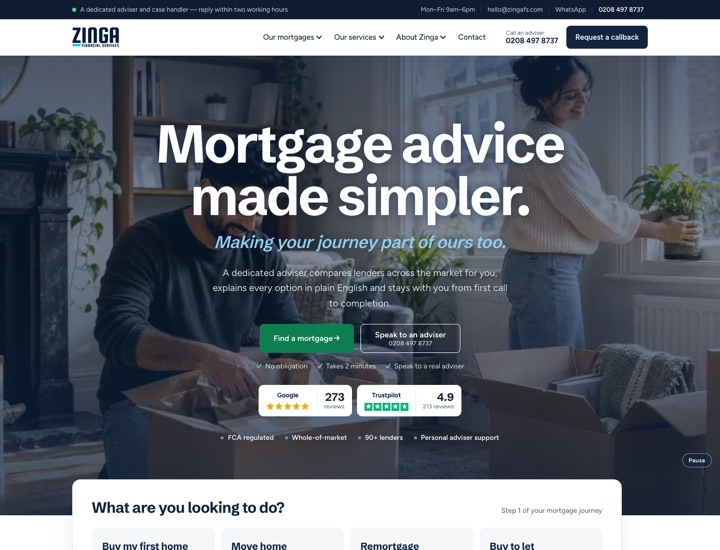
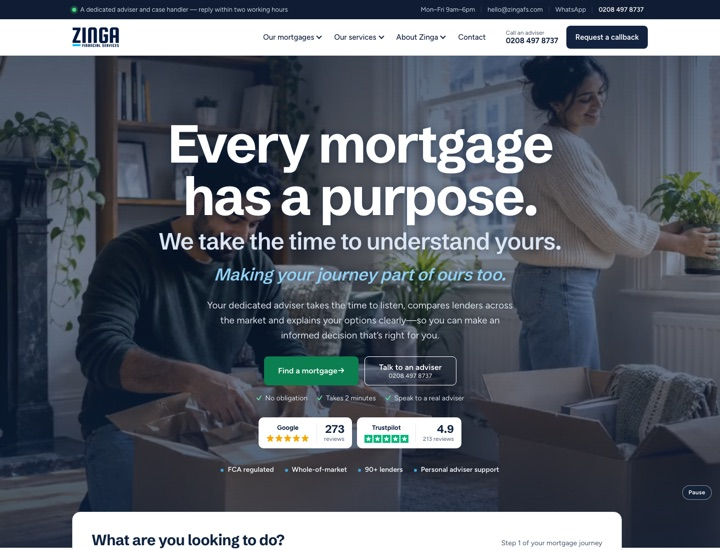
Use the client's hero wording in all four options
"Every mortgage has a purpose. We take the time to understand yours.",
the new intro paragraph and a "Talk to an adviser" button.

diff --git a/hero-photo/index.html b/hero-photo/index.html
@@ -25,7 +25,7 @@
 <script src="js/site.js" defer></script>
         <script src="js/home.js" defer></script>
     </head>
-<body>
+<body >
 <a class="skip-link" href="#main">Skip to content</a>
 <div class="page">
     <div class="topbar" role="region" aria-label="Contact and regulatory information">
@@ -46,8 +46,8 @@
     <header class="site-header" id="site-header">
     <div class="container header-bar">
         <a class="logo" href="./" aria-label="Zinga Financial Services home">
-            <img src="images/zinga-logo.png" alt="Zinga Financial Services" width="94" height="40">
-        </a>
+            <img class="" src="images/zinga-logo.png" alt="Zinga Financial Services" width="94" height="40">
+                    </a>
         <nav class="main-nav" aria-label="Main">
             
             <div class="mega" data-mega>
@@ -304,12 +304,12 @@
                     <img class="hp-hero-media" src="storage/stock/hero.jpg" alt="" aria-hidden="true" width="1536" height="1024" fetchpriority="high" decoding="async">
                 
         <div class="container hp-hero-solo">
-            <h1 class="hp-h1">Mortgage advice made simpler.</h1>
+            <h1 class="hp-h1">Every mortgage has a purpose. <span class="hp-h1-soft">We take the time to understand yours.</span></h1>
                             <p class="hp-motto">Making your journey part of ours too.</p>
-                        <p class="hp-lede">A dedicated adviser compares lenders across the market for you, explains every option in plain English and stays with you from first call to completion.</p>
+                        <p class="hp-lede">Your dedicated adviser takes the time to listen, compares lenders across the market and explains your options clearly—so you can make an informed decision that’s right for you.</p>
             <div class="hp-cta-row">
                 <a class="btn btn-go btn-lg" href="#enquiry" data-scroll-enquiry data-event="find_mortgage_click" data-location="hero">Find a mortgage <span aria-hidden="true">→</span></a>
-                <a class="btn btn-outline btn-lg hp-call-btn" href="tel:02084978737" data-event="call_click" data-location="hero"><span>Speak to an adviser</span><small>0208 497 8737</small></a>
+                <a class="btn btn-outline btn-lg hp-call-btn" href="tel:02084978737" data-event="call_click" data-location="hero"><span>Talk to an adviser</span><small>0208 497 8737</small></a>
             </div>
             <ul class="hp-ticks" aria-label="What to expect">
                 <li>No obligation</li><li>Takes 2 minutes</li><li>Speak to a real adviser</li>
@@ -559,7 +559,7 @@
                             <div class="hp-field" aria-hidden="true">
                                 <label>Leave this field empty <input type="text" name="website" tabindex="-1" autocomplete="off"></label>
                             </div>
[2 lines of base64/hex data omitted]
                         </fieldset>
 
                         <p class="error hp-step-error" data-step-error role="alert" hidden></p>

diff --git a/hero-video/index.html b/hero-video/index.html
@@ -25,7 +25,7 @@
 <script src="js/site.js" defer></script>
         <script src="js/home.js" defer></script>
     </head>
-<body>
+<body >
 <a class="skip-link" href="#main">Skip to content</a>
 <div class="page">
     <div class="topbar" role="region" aria-label="Contact and regulatory information">
@@ -46,8 +46,8 @@
     <header class="site-header" id="site-header">
     <div class="container header-bar">
         <a class="logo" href="./" aria-label="Zinga Financial Services home">
-            <img src="images/zinga-logo.png" alt="Zinga Financial Services" width="94" height="40">
-        </a>
+            <img class="" src="images/zinga-logo.png" alt="Zinga Financial Services" width="94" height="40">
+                    </a>
         <nav class="main-nav" aria-label="Main">
             
             <div class="mega" data-mega>
@@ -308,12 +308,12 @@
             <button type="button" class="hp-hero-pause" data-hero-pause aria-label="Pause background video">Pause</button>
                 
         <div class="container hp-hero-solo">
-            <h1 class="hp-h1">Mortgage advice made simpler.</h1>
+            <h1 class="hp-h1">Every mortgage has a purpose. <span class="hp-h1-soft">We take the time to understand yours.</span></h1>
                             <p class="hp-motto">Making your journey part of ours too.</p>
-                        <p class="hp-lede">A dedicated adviser compares lenders across the market for you, explains every option in plain English and stays with you from first call to completion.</p>
+                        <p class="hp-lede">Your dedicated adviser takes the time to listen, compares lenders across the market and explains your options clearly—so you can make an informed decision that’s right for you.</p>
             <div class="hp-cta-row">
                 <a class="btn btn-go btn-lg" href="#enquiry" data-scroll-enquiry data-event="find_mortgage_click" data-location="hero">Find a mortgage <span aria-hidden="true">→</span></a>
-                <a class="btn btn-outline btn-lg hp-call-btn" href="tel:02084978737" data-event="call_click" data-location="hero"><span>Speak to an adviser</span><small>0208 497 8737</small></a>
+                <a class="btn btn-outline btn-lg hp-call-btn" href="tel:02084978737" data-event="call_click" data-location="hero"><span>Talk to an adviser</span><small>0208 497 8737</small></a>
             </div>
             <ul class="hp-ticks" aria-label="What to expect">
                 <li>No obligation</li><li>Takes 2 minutes</li><li>Speak to a real adviser</li>
@@ -563,7 +563,7 @@
                             <div class="hp-field" aria-hidden="true">
                                 <label>Leave this field empty <input type="text" name="website" tabindex="-1" autocomplete="off"></label>
                             </div>
[2 lines of base64/hex data omitted]
                         </fieldset>
 
                         <p class="error hp-step-error" data-step-error role="alert" hidden></p>

diff --git a/hero-photo-full/index.html b/hero-photo-full/index.html
@@ -306,12 +306,12 @@
                     <img class="hp-hero-media" src="storage/stock/hero.jpg" alt="" aria-hidden="true" width="1536" height="1024" fetchpriority="high" decoding="async">
                 
         <div class="container hp-hero-solo">
-            <h1 class="hp-h1">Mortgage advice made simpler.</h1>
+            <h1 class="hp-h1">Every mortgage has a purpose. <span class="hp-h1-soft">We take the time to understand yours.</span></h1>
                             <p class="hp-motto">Making your journey part of ours too.</p>
-                        <p class="hp-lede">A dedicated adviser compares lenders across the market for you, explains every option in plain English and stays with you from first call to completion.</p>
+                        <p class="hp-lede">Your dedicated adviser takes the time to listen, compares lenders across the market and explains your options clearly—so you can make an informed decision that’s right for you.</p>
             <div class="hp-cta-row">
                 <a class="btn btn-go btn-lg" href="#enquiry" data-scroll-enquiry data-event="find_mortgage_click" data-location="hero">Find a mortgage <span aria-hidden="true">→</span></a>
-                <a class="btn btn-outline btn-lg hp-call-btn" href="tel:02084978737" data-event="call_click" data-location="hero"><span>Speak to an adviser</span><small>0208 497 8737</small></a>
+                <a class="btn btn-outline btn-lg hp-call-btn" href="tel:02084978737" data-event="call_click" data-location="hero"><span>Talk to an adviser</span><small>0208 497 8737</small></a>
             </div>
             <ul class="hp-ticks" aria-label="What to expect">
                 <li>No obligation</li><li>Takes 2 minutes</li><li>Speak to a real adviser</li>
@@ -561,7 +561,7 @@
                             <div class="hp-field" aria-hidden="true">
                                 <label>Leave this field empty <input type="text" name="website" tabindex="-1" autocomplete="off"></label>
                             </div>
[2 lines of base64/hex data omitted]
                         </fieldset>
 
                         <p class="error hp-step-error" data-step-error role="alert" hidden></p>

diff --git a/hero-video-full/index.html b/hero-video-full/index.html
@@ -310,12 +310,12 @@
             <button type="button" class="hp-hero-pause" data-hero-pause aria-label="Pause background video">Pause</button>
                 
         <div class="container hp-hero-solo">
-            <h1 class="hp-h1">Mortgage advice made simpler.</h1>
+            <h1 class="hp-h1">Every mortgage has a purpose. <span class="hp-h1-soft">We take the time to understand yours.</span></h1>
                             <p class="hp-motto">Making your journey part of ours too.</p>
-                        <p class="hp-lede">A dedicated adviser compares lenders across the market for you, explains every option in plain English and stays with you from first call to completion.</p>
+                        <p class="hp-lede">Your dedicated adviser takes the time to listen, compares lenders across the market and explains your options clearly—so you can make an informed decision that’s right for you.</p>
             <div class="hp-cta-row">
                 <a class="btn btn-go btn-lg" href="#enquiry" data-scroll-enquiry data-event="find_mortgage_click" data-location="hero">Find a mortgage <span aria-hidden="true">→</span></a>
-                <a class="btn btn-outline btn-lg hp-call-btn" href="tel:02084978737" data-event="call_click" data-location="hero"><span>Speak to an adviser</span><small>0208 497 8737</small></a>
+                <a class="btn btn-outline btn-lg hp-call-btn" href="tel:02084978737" data-event="call_click" data-location="hero"><span>Talk to an adviser</span><small>0208 497 8737</small></a>
             </div>
             <ul class="hp-ticks" aria-label="What to expect">
                 <li>No obligation</li><li>Takes 2 minutes</li><li>Speak to a real adviser</li>
@@ -565,7 +565,7 @@
                             <div class="hp-field" aria-hidden="true">
                                 <label>Leave this field empty <input type="text" name="website" tabindex="-1" autocomplete="off"></label>
                             </div>
[2 lines of base64/hex data omitted]
                         </fieldset>
 
                         <p class="error hp-step-error" data-step-error role="alert" hidden></p>

diff --git a/index.html b/index.html
@@ -94,7 +94,7 @@
         </div>
       </a>
     </div>
-    <p class="lede changes">What changed since the call: the line above the heading and the FCA number in the top bar are removed; the repeated sections are gone (“Not just a comparison site”, “What can we help with?”, the three steps, advisers and protection — they now live on their own pages); About Zinga shows lenders, Google and Trustpilot, with the whole-of-market, dedicated adviser and end-to-end points underneath; and the calculators sit higher up.</p>
+    <p class="lede changes">What changed since the call: the line above the heading and the FCA number in the top bar are removed; the repeated sections are gone (“Not just a comparison site”, “What can we help with?”, the three steps, advisers and protection — they now live on their own pages); About Zinga shows lenders, Google and Trustpilot, with the whole-of-market, dedicated adviser and end-to-end points underneath; and the calculators sit higher up. The hero now uses your wording: “Every mortgage has a purpose. We take the time to understand yours.” with the “Talk to an adviser” button.</p>
 
     <section class="earlier">
       <h3>Earlier versions</h3>

diff --git a/hero-photo-full/css/site.css b/hero-photo-full/css/site.css
@@ -973,6 +973,9 @@ body.drawer-open { overflow: hidden; }
 .hp-hero-solo { display: flex; flex-direction: column; align-items: center; text-align: center; gap: 26px; max-width: 980px; padding-top: clamp(16px, 3vw, 40px); padding-bottom: clamp(112px, 10vw, 168px); }
 .hp-hero-solo .hp-h1 { font-size: clamp(46px, 7.4vw, 108px); line-height: .98; }
 .hp-hero-solo .hp-lede { max-width: 640px; }
+/* Second sentence of the hero heading (client copy, 8 Oct): own line, smaller and softer */
+.hp-h1-soft { display: block; margin-top: .26em; font-size: max(.44em, 25px); font-weight: 600; line-height: 1.12; letter-spacing: -.025em; color: #3b5578; }
+.hp-hero-dark .hp-h1-soft { color: #dbe6f2; }
 .hp-hero-solo .hp-cta-row, .hp-hero-solo .hp-ticks, .hp-hero-solo .hp-badges, .hp-hero-solo .hp-trust-row { justify-content: center; }
 .hp-hero-solo .hp-eyebrow::after { content: ""; width: 28px; height: 3px; background: var(--sky); flex-shrink: 0; }
 @media (max-width: 560px) { .hp-hero-solo .hp-eyebrow::before, .hp-hero-solo .hp-eyebrow::after { display: none; } }

diff --git a/hero-photo/css/site.css b/hero-photo/css/site.css
@@ -973,6 +973,9 @@ body.drawer-open { overflow: hidden; }
 .hp-hero-solo { display: flex; flex-direction: column; align-items: center; text-align: center; gap: 26px; max-width: 980px; padding-top: clamp(16px, 3vw, 40px); padding-bottom: clamp(112px, 10vw, 168px); }
 .hp-hero-solo .hp-h1 { font-size: clamp(46px, 7.4vw, 108px); line-height: .98; }
 .hp-hero-solo .hp-lede { max-width: 640px; }
+/* Second sentence of the hero heading (client copy, 8 Oct): own line, smaller and softer */
+.hp-h1-soft { display: block; margin-top: .26em; font-size: max(.44em, 25px); font-weight: 600; line-height: 1.12; letter-spacing: -.025em; color: #3b5578; }
+.hp-hero-dark .hp-h1-soft { color: #dbe6f2; }
 .hp-hero-solo .hp-cta-row, .hp-hero-solo .hp-ticks, .hp-hero-solo .hp-badges, .hp-hero-solo .hp-trust-row { justify-content: center; }
 .hp-hero-solo .hp-eyebrow::after { content: ""; width: 28px; height: 3px; background: var(--sky); flex-shrink: 0; }
 @media (max-width: 560px) { .hp-hero-solo .hp-eyebrow::before, .hp-hero-solo .hp-eyebrow::after { display: none; } }

diff --git a/hero-video-full/css/site.css b/hero-video-full/css/site.css
@@ -973,6 +973,9 @@ body.drawer-open { overflow: hidden; }
 .hp-hero-solo { display: flex; flex-direction: column; align-items: center; text-align: center; gap: 26px; max-width: 980px; padding-top: clamp(16px, 3vw, 40px); padding-bottom: clamp(112px, 10vw, 168px); }
 .hp-hero-solo .hp-h1 { font-size: clamp(46px, 7.4vw, 108px); line-height: .98; }
 .hp-hero-solo .hp-lede { max-width: 640px; }
+/* Second sentence of the hero heading (client copy, 8 Oct): own line, smaller and softer */
+.hp-h1-soft { display: block; margin-top: .26em; font-size: max(.44em, 25px); font-weight: 600; line-height: 1.12; letter-spacing: -.025em; color: #3b5578; }
+.hp-hero-dark .hp-h1-soft { color: #dbe6f2; }
 .hp-hero-solo .hp-cta-row, .hp-hero-solo .hp-ticks, .hp-hero-solo .hp-badges, .hp-hero-solo .hp-trust-row { justify-content: center; }
 .hp-hero-solo .hp-eyebrow::after { content: ""; width: 28px; height: 3px; background: var(--sky); flex-shrink: 0; }
 @media (max-width: 560px) { .hp-hero-solo .hp-eyebrow::before, .hp-hero-solo .hp-eyebrow::after { display: none; } }

diff --git a/hero-video/css/site.css b/hero-video/css/site.css
@@ -973,6 +973,9 @@ body.drawer-open { overflow: hidden; }
 .hp-hero-solo { display: flex; flex-direction: column; align-items: center; text-align: center; gap: 26px; max-width: 980px; padding-top: clamp(16px, 3vw, 40px); padding-bottom: clamp(112px, 10vw, 168px); }
 .hp-hero-solo .hp-h1 { font-size: clamp(46px, 7.4vw, 108px); line-height: .98; }
 .hp-hero-solo .hp-lede { max-width: 640px; }
+/* Second sentence of the hero heading (client copy, 8 Oct): own line, smaller and softer */
+.hp-h1-soft { display: block; margin-top: .26em; font-size: max(.44em, 25px); font-weight: 600; line-height: 1.12; letter-spacing: -.025em; color: #3b5578; }
+.hp-hero-dark .hp-h1-soft { color: #dbe6f2; }
 .hp-hero-solo .hp-cta-row, .hp-hero-solo .hp-ticks, .hp-hero-solo .hp-badges, .hp-hero-solo .hp-trust-row { justify-content: center; }
 .hp-hero-solo .hp-eyebrow::after { content: ""; width: 28px; height: 3px; background: var(--sky); flex-shrink: 0; }
 @media (max-width: 560px) { .hp-hero-solo .hp-eyebrow::before, .hp-hero-solo .hp-eyebrow::after { display: none; } }
